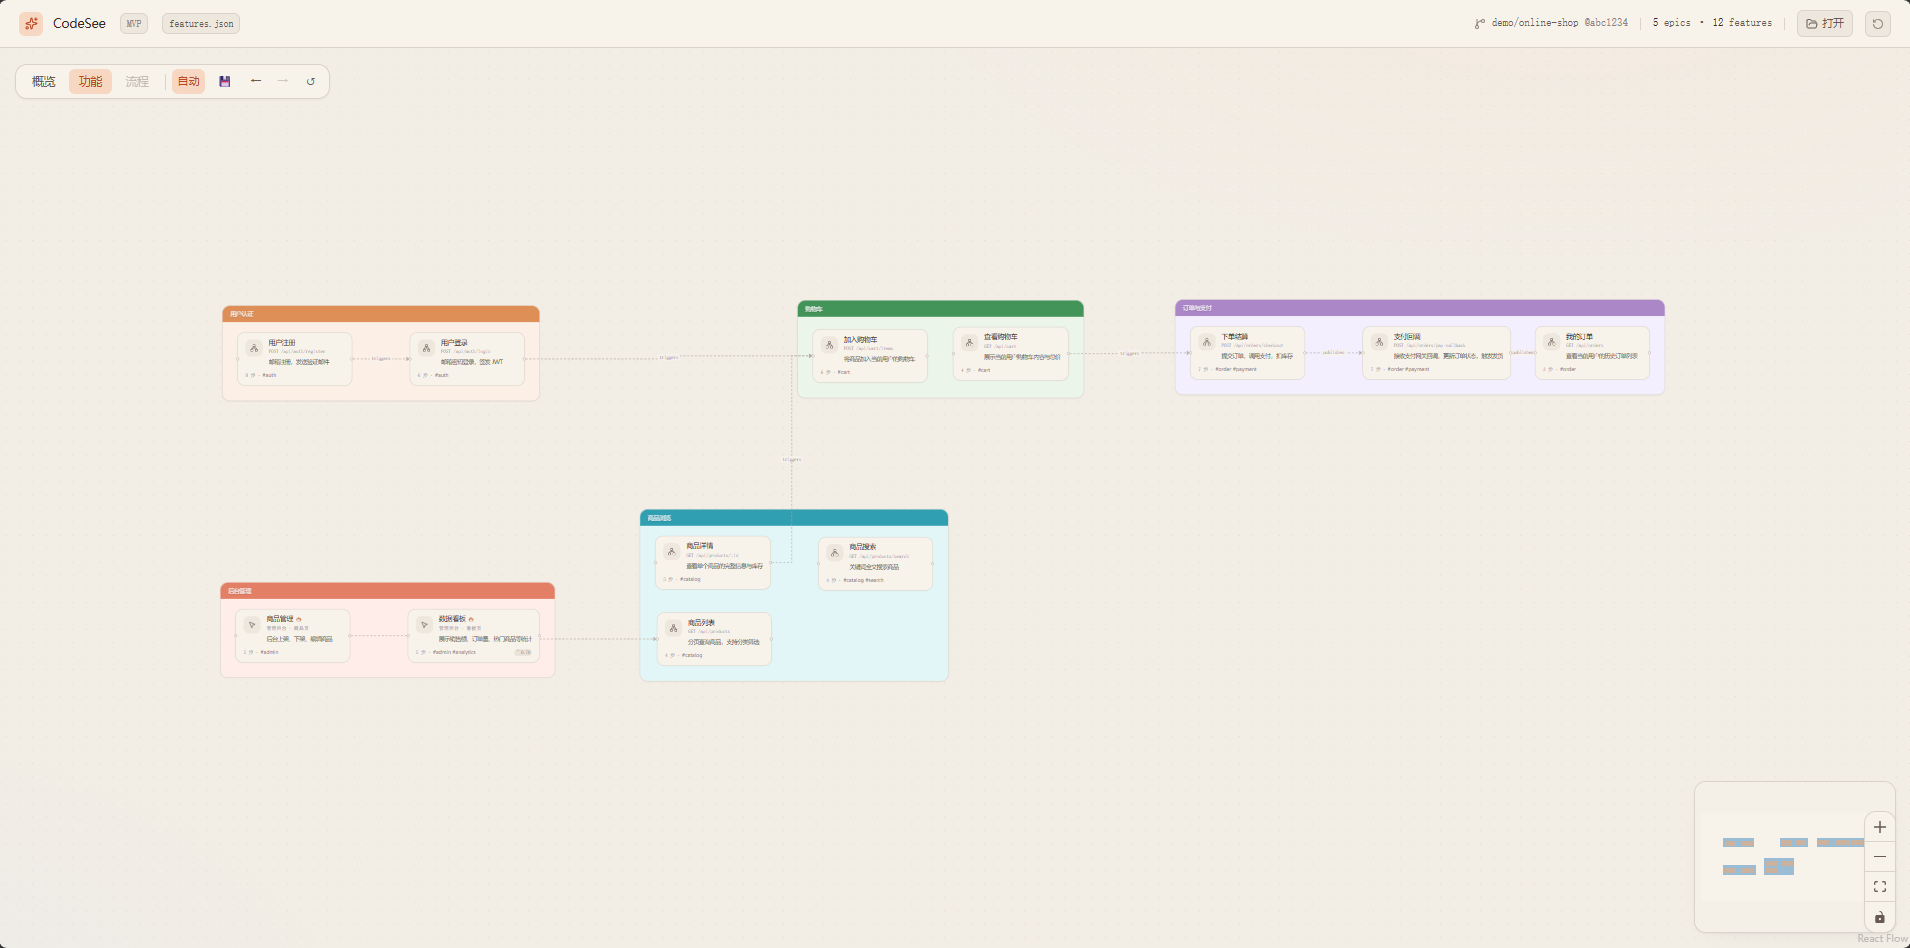
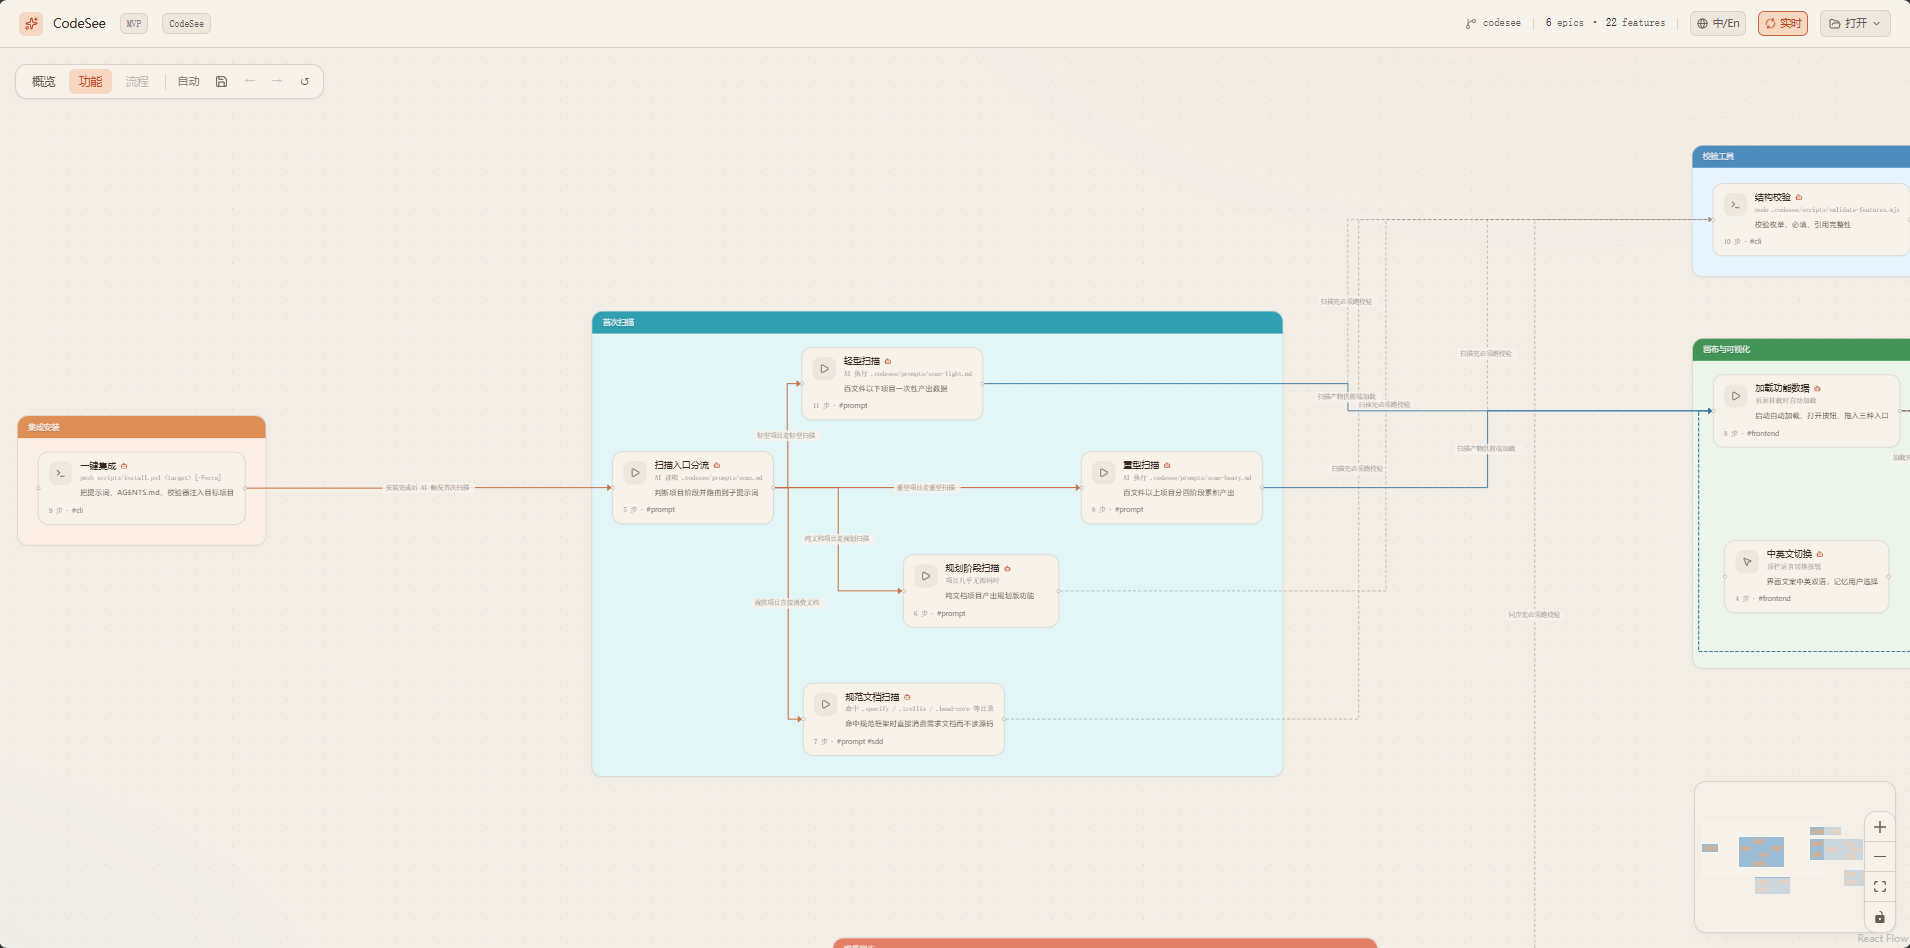
docs: README 重写主推网页 demo + version 0.5.0 + CHANGELOG

diff --git a/CHANGELOG.md b/CHANGELOG.md
@@ -2,29 +2,98 @@
 
 All notable changes to this project will be documented in this file.
 
-## [0.1.0] - 2026-05-15
+The format follows [Keep a Changelog](https://keepachangelog.com/en/1.1.0/).
+Versions follow [Semantic Versioning](https://semver.org/) loosely — schema may still change between minor versions during 0.x.
+
+> Day-to-day decision log lives in `docs/problem.md` (private). This file only lists user-facing changes.
+
+---
+
+## [0.5.0] — 2026-05-17
+
+Six months of iteration on real projects (Polisim, Meituan AI Hackathon) shaped this release. Highlights: schema simplification, multi-project switcher, SDD ecosystem integration, and visual de-noising of the canvas.
+
+### ⚠ Breaking
+
+- **`cross_feature.kind` reduced from 4 → 3 values**: `triggers / publishes / subscribes / depends_on` → **`triggers / flow / depends_on`**. `publishes` and `subscribes` merged into a single `flow` (direction expressed by `from→to`); the loader auto-migrates old files but please update your sources to the new values.
+- **`epic_flow.kind` reduced from 3 → 2 values**: `enables` removed. `A enables B` is equivalent to `B depends_on A` — loader auto-reverses direction.
+- New optional field: `cross_feature.mode?: 'sync' | 'async'` for distinguishing synchronous data flow from asynchronous events.
 
 ### Added
 
-- **Viewer**: Interactive canvas with three views (Overview / Features / Steps)
-- **Layout**: ELK-based layout for features/steps, order-based layout for overview
-- **Persistence**: File System Access API + localStorage for layout save/load
-- **Undo/Redo**: Per-view history with Ctrl+Z / Ctrl+Shift+Z
-- **Prompts**: Complete prompt system (scan-light, scan-heavy, sync) with shared schema and rules
-- **Validator**: Zero-deps Node.js script for structural validation of features.json
-- **Install scripts**: PowerShell + Bash scripts for injecting CodeSee into target projects
-- **i18n**: Chinese/English UI toggle
-- **Multi-language output**: `manifest.lang` controls semantic text language
-- **Container drag**: Epic containers draggable with internal nodes following
-- **Collision detection**: Containers auto-separate after offset application
-- **Incremental offset model**: Overview → Features mapping preserves user adjustments
-- **New node animation**: Fade-in for newly added nodes on reload
-- **Error boundary**: Graceful fallback for malformed features.json
-- **Auto-save**: Debounced file write (800ms) when FSA authorized
+- **Multi-project switcher** ([cac47f2](../../commit/cac47f2), [e6fd4a4](../../commit/e6fd4a4), [9134891](../../commit/9134891)): top-bar dropdown to switch between projects. Three project kinds: FSA folders (one-time auth, remembered across refresh), uploaded files (snapshot in IndexedDB), bundled examples (CodeSee itself, blog system).
+- **CodeSee modeling itself** ([3fb5df2](../../commit/3fb5df2)): the default bundled example is now `features.json` of CodeSee — open the live demo and see the tool's own feature graph as proof of generality.
+- **SDD framework integration** ([937a361](../../commit/937a361)): install script auto-detects `.specify/`, `.trellis/`, `.bmad-core/`, `bmad/`, `.agents/skills/`, `.agent-os/`. When detected, `scan.md` routes to a dedicated `scan-sdd.md` that consumes spec/PRD docs directly — no source reverse engineering.
+- **SKILL.md cross-platform standard** ([937a361](../../commit/937a361)): install script writes `.agents/skills/codesee/SKILL.md` following [agentskills.io](https://agentskills.io/) standard. Compatible with Claude Code / Cursor / Codex / Gemini CLI / Copilot and 20+ platforms via progressive disclosure.
+- **Canvas live reload** ([f4f20e0](../../commit/f4f20e0), [10f68ec](../../commit/10f68ec)): toggle the **Live** button — viewer polls `features.json` every 3 seconds, auto-applies changes, and fades in new nodes. Works for URL sources (bundled/static-host) and FSA directory handles.
+- **Re-authorization banner** ([e6fd4a4](../../commit/e6fd4a4)): when an FSA project's permission lapses after browser restart, the canvas falls back to the default bundled example and shows an unobtrusive "reauthorize" banner — one click restores access.
+- **Edge visual layering** ([e073449](../../commit/e073449)): cross-feature edges now use distinct colors and stroke styles per kind. `triggers` uses warm orange (user journey main line), `flow` uses blue (data/event flow), `depends_on` uses muted gray dashed.
+- **Hover de-noising + focus lock** ([e073449](../../commit/e073449), [11ace7f](../../commit/11ace7f)): hover any node → unrelated nodes/edges fade to 18%, related edges thicken. Click to lock focus (survives mouse leave); Esc or click-empty clears.
+- **Edge label uses `note`** ([e073449](../../commit/e073449)): cross-feature edges show the human-readable `note` (e.g. "登录后才能下单") instead of the technical kind name.
+- **Drag from IDE support** ([6f82bf5](../../commit/6f82bf5), [26d8394](../../commit/26d8394), [3b69169](../../commit/3b69169), [73c6f7c](../../commit/73c6f7c), [460e8ab](../../commit/460e8ab)): when AI IDE drag-and-drop only ships `text/plain` content (not `dataTransfer.files`), parse the JSON content directly. Falls back to a clear error message when only path is shipped.
+- **Sync Checkpoint protocol** ([a930de9](../../commit/a930de9), [4b3551d](../../commit/4b3551d)): for large tasks (5+ files), AI is instructed to break work into logical-closure checkpoints and sync `features.json` after each one — preventing context drift on long tasks. Multi-agent safety added: AI only upgrades `planned` features it actually edited this turn.
+- **Planning mode** ([c3c20b1](../../commit/c3c20b1)): for projects that are documentation-only / pre-implementation, scan produces a "planned" features graph (`tags: ['planned']`, `confidence: 0.3`). Sync auto-promotes them to `implemented` once the corresponding code lands.
+- **Bilingual UI** ([9605274](../../commit/9605274), [f81964a](../../commit/f81964a)): Chinese/English toggle in the top bar. Semantic text language is independently configurable via `manifest.lang`.
+- **Bundled blog-system example** ([78257e3](../../commit/78257e3)): a second example file demonstrating cross-domain use beyond e-commerce.
+
+### Changed
+
+- **`features.json` is the single source of semantics** ([7de1ef0](../../commit/7de1ef0)): formalized in `docs/principles.md`. The frontend never infers semantics — when uncertain, AI must write it down.
+- **Layout engine: dagre → ELK** ([3a4416a](../../commit/3a4416a), [7104449](../../commit/7104449)): better handling of compound nodes and crossings. Overview uses order-based layout for predictability ([fbdead4](../../commit/fbdead4)).
+- **Default view changed to overview** ([eca6735](../../commit/eca6735)): users see the high-level Epic graph first, then drill down.
+- **`localStorage` always writes** ([50e4af9](../../commit/50e4af9)): drag positions persist across refresh regardless of FSA auth state. `autoSave` now only controls FSA file write — not the localStorage draft.
+- **Unified directory authorization** ([b256a4f](../../commit/b256a4f)): `features.json` and `layout.json` share a single FSA directory handle. Authorize once → all subsequent saves and loads bypass the picker.
+- **Prompts restructured** ([a416f08](../../commit/a416f08)): removed progressive disclosure, switched to few-shot + tiered constraints (MUST / SHOULD / MAY).
+- **`scan.md` auto-routes** ([937a361](../../commit/937a361), [c3c20b1](../../commit/c3c20b1)): entry prompt detects SDD framework, scale (light/heavy), or planning state and dispatches to the corresponding sub-prompt.
+
+### Fixed
+
+- **No more repeated folder pickers** ([b256a4f](../../commit/b256a4f), [7c0e56b](../../commit/7c0e56b)): once a directory is authorized, save / autosave / live reload all reuse the handle. Permission errors no longer clear the handle (was the root cause of the loop).
+- **Auto-save default OFF** ([3fd3f90](../../commit/3fd3f90)): the previous default-ON was a hollow promise without FSA authorization.
+- **Container drag follows internal nodes** ([85460c7](../../commit/85460c7), [40b36ff](../../commit/40b36ff), [04dece1](../../commit/04dece1)): in features view, dragging an Epic container now correctly moves all its features.
+- **Layout cache regression** ([6d962e0](../../commit/6d962e0), [c55b5f0](../../commit/c55b5f0)): drag positions are saved only on user drag, not on initial layout, eliminating a (0,0) snapshot bug.
+- **Refresh keeps positions** ([50e4af9](../../commit/50e4af9)): localStorage write was previously gated on `autoSave`, causing positions to vanish on refresh.
+- **Whitelist for technical terms in step-name validator** ([7e9c2dc](../../commit/7e9c2dc)): JWT / DTO / API / HTTP / WS / SSE / JSON / CLI / UI no longer trigger the "ASCII-in-Chinese" warning.
+- **Unknown enum tolerance** ([ab21f97](../../commit/ab21f97)): viewer no longer crashes when AI hallucinates schema-out-of-range values; falls back to default visuals and shows an `ErrorBoundary` instead of a white screen.
+
+### Validator
+
+- New legacy-enum migration warnings (publishes / subscribes / enables) — non-fatal, viewer auto-migrates.
+- File-level smell detection ([10fcf33](../../commit/10fcf33)): error-branch coverage, async-edge ratio, cross-feature kind diversity, confidence-uniformity, and tab-cluster heuristics — all with concrete JSONPath references.
+
+### Docs
+
+- **Three core principles** ([7de1ef0](../../commit/7de1ef0)): see `docs/principles.md`.
+- **Review checklist** ([10fcf33](../../commit/10fcf33)): seven dimensions to audit AI-generated `features.json`. See `docs/review-checklist.md`.
+- **README rebuilt** ([6610dda](../../commit/6610dda), [09aaa36](../../commit/09aaa36), [288c20e](../../commit/288c20e)): rewrites for clarity, banner, badges, IDE-compatibility surface, contribution guide, social preview image.
+- **Live demo on GitHub Pages** ([d7c837d](../../commit/d7c837d)).
+- **Project structure regularized** ([854d652](../../commit/854d652)): added LICENSE, .editorconfig, CONTRIBUTING.md, GitHub issue/PR templates, CI for build verification.
+
+---
+
+## [0.1.0] — 2026-05-15
+
+### Added
+
+- **Viewer**: interactive canvas with three views (Overview / Features / Steps).
+- **Layout**: ELK-based layout for features/steps, order-based layout for overview.
+- **Persistence**: File System Access API + localStorage for layout save/load.
+- **Undo/Redo**: per-view history with Ctrl+Z / Ctrl+Shift+Z.
+- **Prompts**: complete prompt system (`scan-light`, `scan-heavy`, `sync`) with shared schema and rules.
+- **Validator**: zero-deps Node.js script for structural validation of `features.json`.
+- **Install scripts**: PowerShell + Bash for injecting CodeSee into target projects.
+- **i18n**: Chinese/English UI toggle.
+- **Multi-language output**: `manifest.lang` controls semantic text language.
+- **Container drag**: Epic containers draggable with internal nodes following.
+- **Collision detection**: containers auto-separate after offset application.
+- **Incremental offset model**: overview → features mapping preserves user adjustments.
+- **New node animation**: fade-in for newly added nodes on reload.
+- **Error boundary**: graceful fallback for malformed `features.json`.
+- **Auto-save**: debounced file write (800 ms) when FSA authorized.
 
 ### Design Decisions
 
-- `features.json` is the single source of truth for semantics (AI-maintained)
-- `layout.json` is decoupled — user-maintained, never touched by AI
-- Viewer is a pure consumer — no heuristic inference, no project-specific logic
-- Prompts use progressive disclosure (entry → light/heavy) with MUST/SHOULD/MAY constraint levels
+- `features.json` is the single source of truth for semantics (AI-maintained).
+- `layout.json` is decoupled — user-maintained, never touched by AI.
+- Viewer is a pure consumer — no heuristic inference, no project-specific logic.
+- Prompts use progressive disclosure (entry → light/heavy) with MUST/SHOULD/MAY constraint levels.

diff --git a/README.md b/README.md
@@ -4,12 +4,15 @@
 
 # CodeSee
 
-**AI writes the code. You see the story.**
+**The feature graph your AI auto-maintains.**
 
-The feature-level canvas for AI-collaborative development. AI maintains a semantic flow graph of your project — you stay in control without reading every line.
+Stop reading every line of AI-generated code. See a semantic flow graph of your project — auto-updated as AI works, never stale.
 
 [![License: MIT](https://img.shields.io/badge/License-MIT-yellow.svg)](./LICENSE)
 [![Demo](https://img.shields.io/badge/Live_Demo-▶-brightgreen.svg)](https://Kaka-cheaper.github.io/codeSee/)
+[![Version](https://img.shields.io/github/package-json/v/Kaka-cheaper/codeSee?filename=viewer%2Fpackage.json&label=viewer)](./viewer/package.json)
+[![Last commit](https://img.shields.io/github/last-commit/Kaka-cheaper/codeSee)](https://github.com/Kaka-cheaper/codeSee/commits/main)
+[![Issues](https://img.shields.io/github/issues/Kaka-cheaper/codeSee)](https://github.com/Kaka-cheaper/codeSee/issues)
 [![中文](https://img.shields.io/badge/Lang-中文-red.svg)](./README.zh-CN.md)
[1 lines of base64/hex data omitted]
 
@@ -20,6 +23,8 @@ The feature-level canvas for AI-collaborative development. AI maintains a semant
 
 </div>
 
+> ⚠ **Active development.** Schema may change between minor versions. Track [CHANGELOG](./CHANGELOG.md) for breaking changes. Currently the most accurate way to follow progress is the [commit history](https://github.com/Kaka-cheaper/codeSee/commits/main).
+
 ---
 
 > Think of it like this: if a feature is "making scrambled eggs with tomatoes",
@@ -27,6 +32,14 @@ The feature-level canvas for AI-collaborative development. AI maintains a semant
 > not "`prepare()` calls `slice()` then `whisk()`".
 
 Not call graphs. Not import maps. A human-readable story of what your project does.
+
+<div align="center">
+
+### ▶ [Try it in 30 seconds — no install](https://Kaka-cheaper.github.io/codeSee/)
+
+<sub>Open the live demo · explore CodeSee modeling itself · drop your own <code>features.json</code></sub>
+
+</div>
 
 <div align="center">
 <img src="./docs/assets/overview.png" alt="Overview View" width="80%" />
@@ -63,6 +76,28 @@ CodeSee solves this: AI writes the code AND writes the feature map. You see the 
 
 ---
 
+## Why I built this
+
+I'm an independent developer who got tired of AI writing 5000 lines in 5 minutes
+while I spent hours figuring out what changed.
+
+I tried call graphs, import maps, AST tools — all wrong layer. They show *how* code
+calls itself, not *what* the project does for the user.
+
+CodeSee is the tool I wished I had when working with Cursor / Claude Code on real
+projects. After iterating on **Polisim** (40+ features simulation engine) and a
+**美团 AI Hackathon** project to validate the schema and prompts, I'm sharing it.
+
+The three rules that emerged from real use:
+
+1. **Semantic control belongs to AI / `features.json`** — naming, ordering, grouping
+2. **Visual & interaction belongs to the frontend** — drag, zoom, theme, layout
+3. **When uncertain, let AI write it down explicitly** — no frontend heuristics
+
+— [@Kaka-cheaper](https://github.com/Kaka-cheaper) · [LinuxDo](https://linux.do/)
+
+---
+
 ## Core Capabilities
 
 | Capability | Description |
@@ -81,9 +116,30 @@ CodeSee solves this: AI writes the code AND writes the feature map. You see the 
 
 ---
 
+## When NOT to use
+
+- ❌ **Single-file scripts or tiny prototypes** — overkill, just read the code
+- ❌ **Pure documentation projects with no code** — you can use planning mode, but a wiki/Notion may serve better
+- ❌ **Codebases without AI collaboration** — manual maintenance defeats the point; the value is "AI writes it for you"
+- ❌ **Real-time low-latency monitoring** — `features.json` is sync-on-change, not millisecond-live
+- ❌ **Dependency / call graph analysis** — that's the wrong layer; use [Madge](https://github.com/pahen/madge), [dependency-cruiser](https://github.com/sverweij/dependency-cruiser), or your IDE's built-in analyzer
+
+If you're an independent dev / small team using Cursor / Claude Code / Kiro / Copilot to ship features and you keep losing track of what your codebase actually does — that's the sweet spot.
+
+---
+
 ## Quick Start
 
-### 1. Install into your project
+### 1. Clone this repo
+
+```bash
+git clone https://github.com/Kaka-cheaper/codeSee.git
+cd codeSee
+```
+
+The install scripts, prompts, validator, and templates live here. The viewer is hosted on GitHub Pages so you don't need to run it locally.
+
+### 2. Install CodeSee into your project
 
 ```powershell
 # Windows
@@ -93,30 +149,30 @@ CodeSee solves this: AI writes the code AND writes the feature map. You see the 
 ./scripts/install.sh /path/to/your/project
 ```
 
-This injects `AGENTS.md` + `.codesee/` (prompts, validator) into your project.
+This injects `AGENTS.md` + `.codesee/` (prompts, validator) into your project. Roughly 6 small files. Doesn't touch your code.
 
-### 2. Let AI scan
+### 3. Let AI scan
 
 Open your project in any AI IDE (Cursor / Claude Code / Kiro / Copilot / Codex / Gemini CLI / ...).
 The AI reads `AGENTS.md` (or `.agents/skills/codesee/SKILL.md` for SKILL.md-compatible IDEs) and automatically generates `.codesee/features.json`.
 
 If your project uses a Spec-Driven Development framework (`.specify/`, `.trellis/`, `.bmad-core/`, ...), CodeSee will detect it and consume the spec/PRD docs directly — no source code scan needed.
 
-### 3. View the graph
+### 4. View the graph (in your browser, no install)
 
-```bash
-cd codeSee/viewer
-npm install
-npm run dev
-```
+Open **[https://Kaka-cheaper.github.io/codeSee/](https://Kaka-cheaper.github.io/codeSee/)** — the live web viewer.
 
-Open `http://localhost:5173/` — by default you'll see CodeSee's own feature graph (a live example of the tool modeling itself). Click **Open ▼** in the top-right to switch:
+By default you'll see CodeSee's own feature graph. To switch to your project:
 
-- **+ Add project** → pick a folder containing `features.json` (one-time auth, remembered forever — no repeated folder pickers)
-- **Drop a file** → drag any `features.json` onto the canvas
-- **Bundled examples** → switch to the blog-system example or CodeSee itself
+1. Click **+ Add project** in the top-right dropdown
+2. Pick the folder containing `.codesee/features.json` — you'll get a one-time browser permission prompt
+3. Done. The browser reads your local files directly via the [File System Access API](https://developer.mozilla.org/en-US/docs/Web/API/File_System_Access_API) — never uploads anything.
 
-All your previous projects stay in the dropdown. Next time you open the viewer, just click to switch.
+All your previous projects stay in the dropdown — next time you open the viewer, just click to switch.
+
+> **Browser support**: Chrome / Edge / Arc / Brave (Chromium-based). Firefox/Safari users can drag a `features.json` file in instead — layout still saves to localStorage.
+
+> **Want to run viewer locally?** See [Development setup](./CONTRIBUTING.md#development-setup) — `cd viewer && npm run dev`.
 
 ---
 
@@ -252,6 +308,18 @@ codeSee/
 ## FAQ / Troubleshooting
 
 <details>
+<summary><strong>How can the browser read files from my disk? Is that safe?</strong></summary>
+
+CodeSee uses the [File System Access API](https://developer.mozilla.org/en-US/docs/Web/API/File_System_Access_API), a modern web standard. Three things make it safe:
+
+1. **You explicitly choose the folder.** The browser shows a folder picker — nothing happens unless you click "Allow". Same UX as opening a file in any web app.
+2. **The browser sandboxes access.** Only that one folder you picked is readable, and only by `https://Kaka-cheaper.github.io/`. Refresh the page → permission resets to `prompt` until you re-grant.
+3. **Nothing leaves your machine.** The viewer is a static site (HTML/JS/CSS only) — there's no backend, no upload, no analytics. All file reads happen in your browser. You can verify by checking the Network tab — only the viewer assets load, nothing else.
+
+Even if you don't trust me: clone the repo, read [`viewer/src/fcg/fileSystem.ts`](./viewer/src/fcg/fileSystem.ts) (the only file that touches FSA), and see for yourself. Or just run viewer locally — see [Development setup](./CONTRIBUTING.md#development-setup).
+</details>
+
+<details>
 <summary><strong>Viewer shows a blank white screen after loading features.json</strong></summary>
 
 The AI likely used enum values outside the schema (e.g. `role: "logic"` instead of `role: "compute"`).
@@ -371,6 +439,7 @@ The install script writes both — your AI IDE will pick whichever it understand
 
 - [ ] **CI integration** — validate `features.json` in GitHub Actions / GitLab CI
 - [ ] **Plugin system** — custom node renderers, custom layout algorithms
+- [ ] **Zero-clone install** — `curl ... | bash` one-liner that fetches scripts/prompts/templates from GitHub raw, no `git clone` needed
 
 ### Long-term (optional)
 
@@ -401,3 +470,15 @@ Quick start:
 ## License
 
 [MIT](./LICENSE)
+
+---
+
+<div align="center">
+
+Built with ❤ by **[@Kaka-cheaper](https://github.com/Kaka-cheaper)** — independent dev exploring AI-collaborative workflows.
+
+Found this useful? **[Star ⭐ on GitHub](https://github.com/Kaka-cheaper/codeSee)** · **[Say hi on LinuxDo](https://linux.do/)**
+
+If you ship something with CodeSee, [open an issue](https://github.com/Kaka-cheaper/codeSee/issues/new) — I'd love to feature it.
+
+</div>
